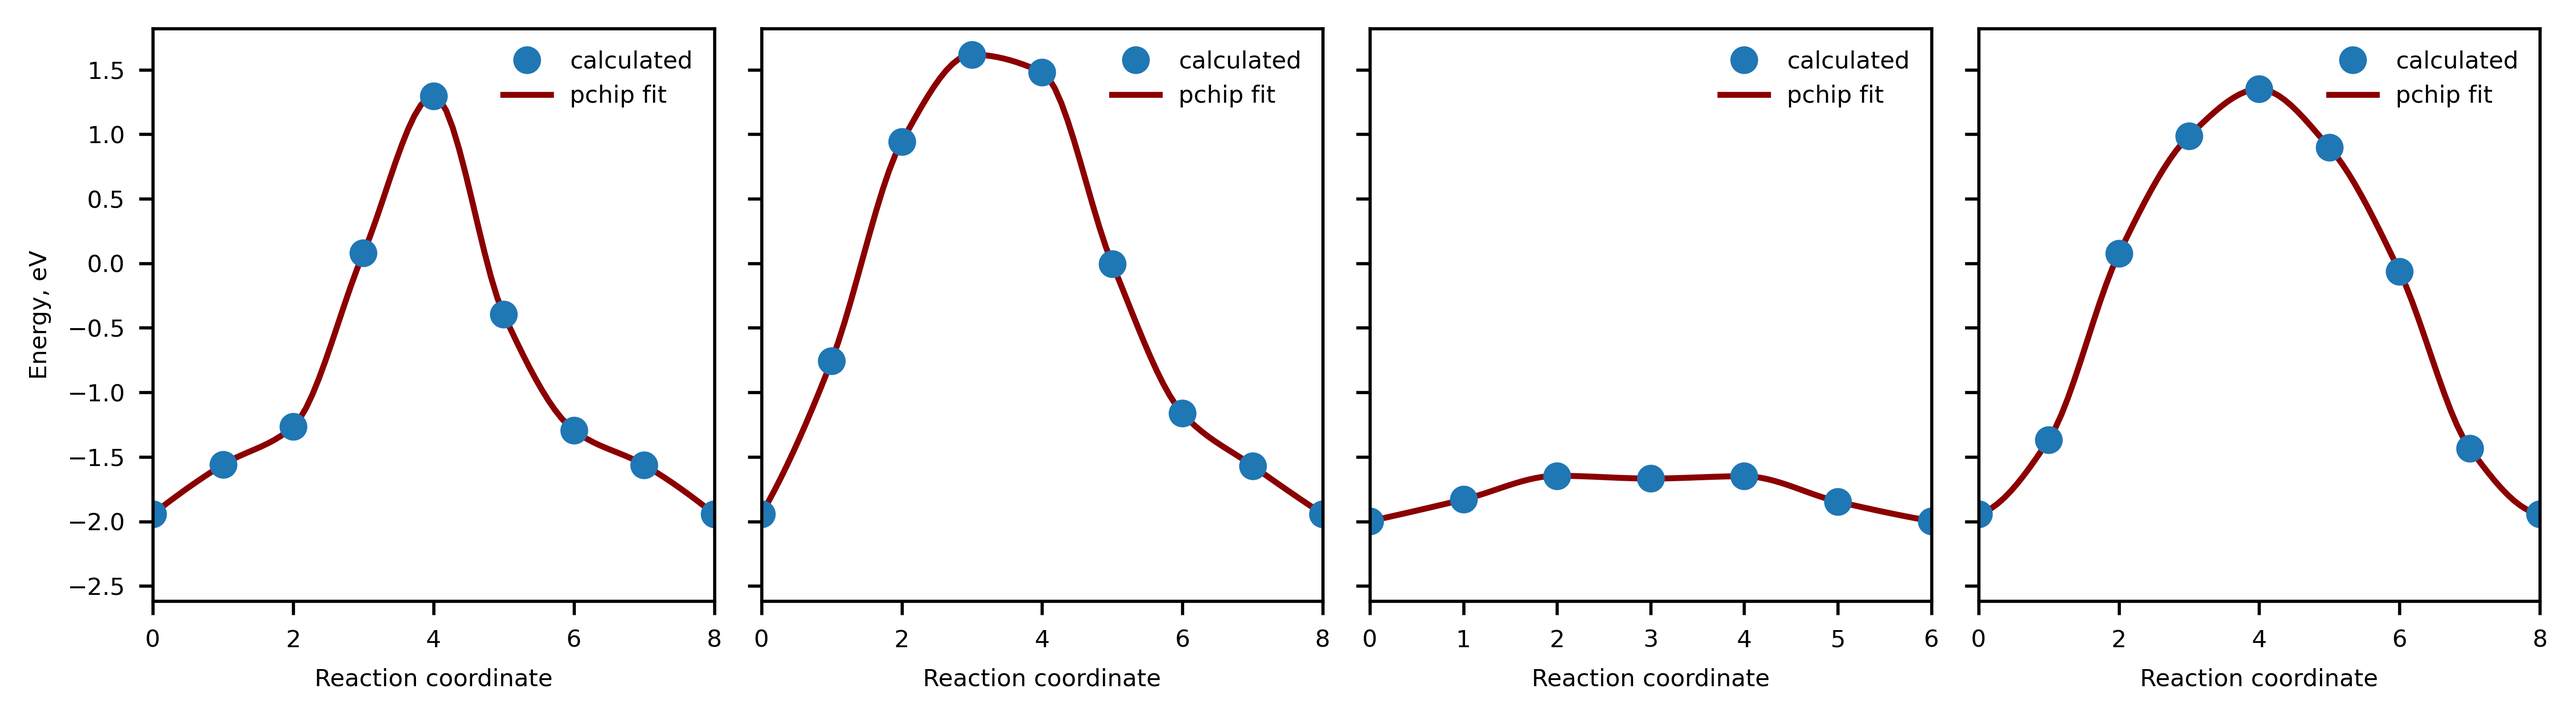
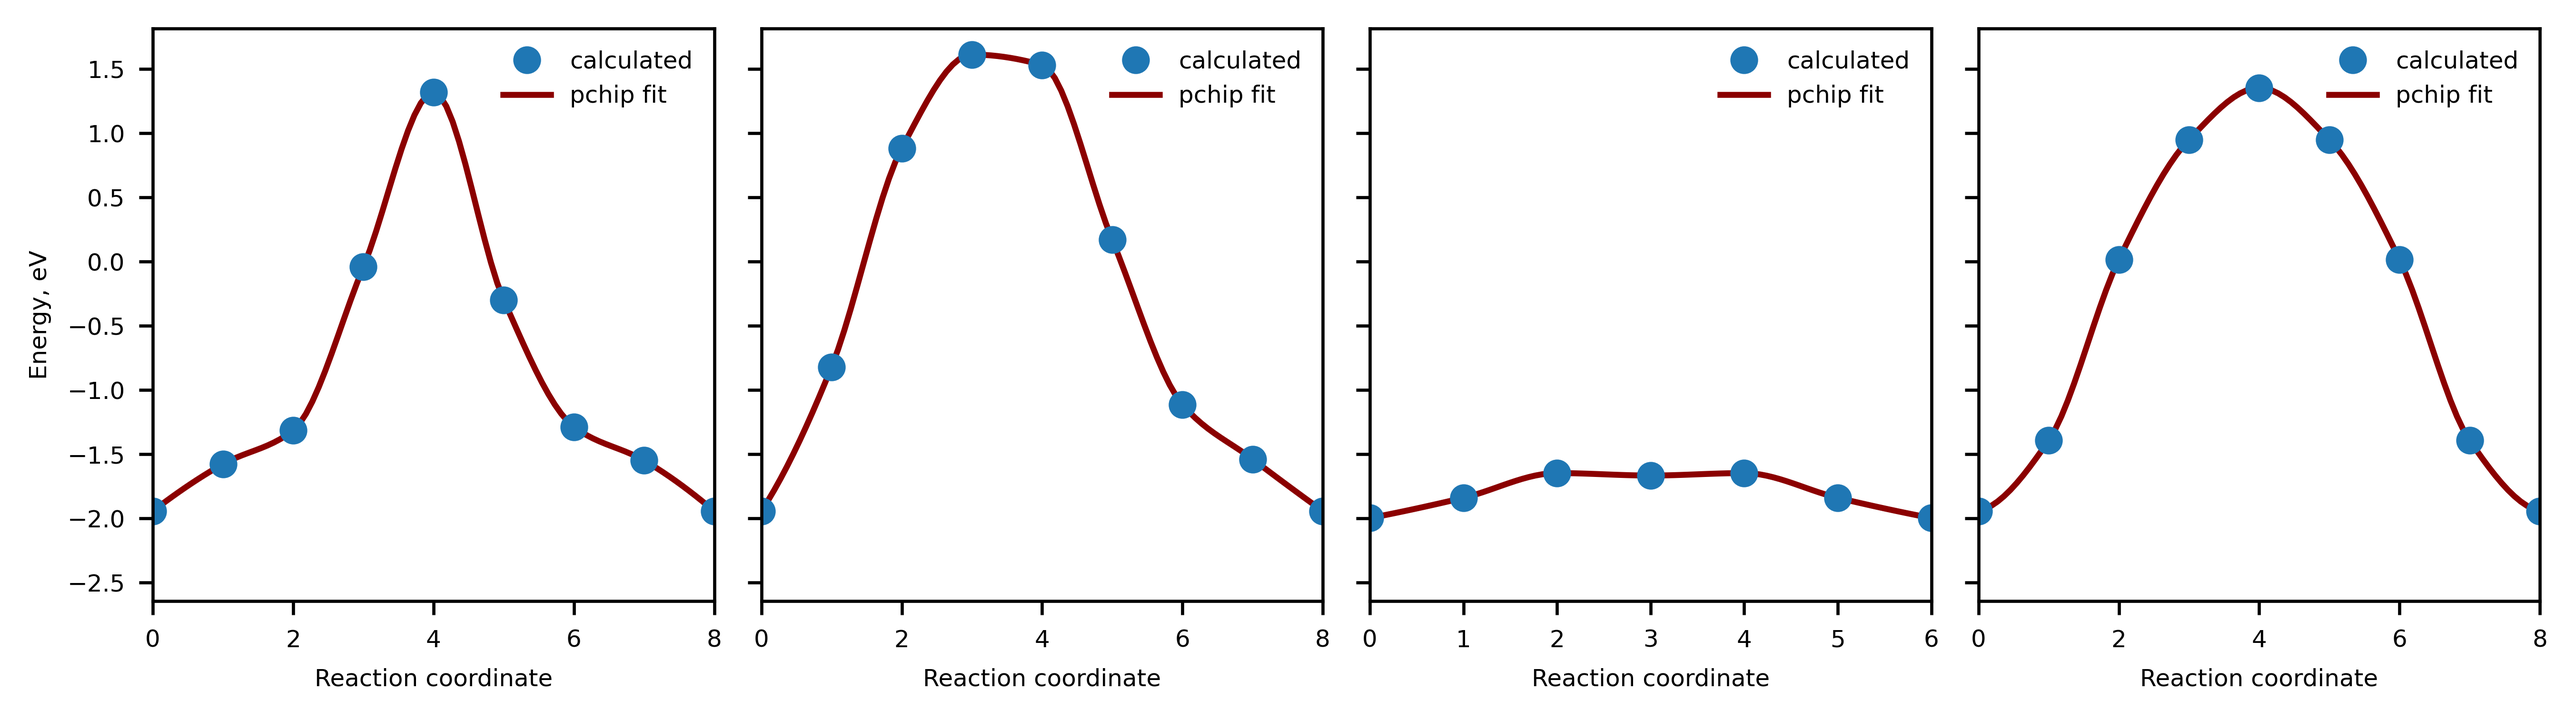
small refactoring

diff --git a/ions/tools/perconeb.py b/ions/tools/perconeb.py
@@ -455,7 +455,30 @@ class Perconeb(PathFinder):
     
 
 
-    def create_neb(self, images, k = 5.0, method = 'default', gm = True, **kwargs):
+    def create_neb(self, images, k = 5.0, method = 'default', gm = False, **kwargs):
+        """Wrapper for ase's NEB object. Sets BVSECalculator for each image.
+
+        Parameters
+        ----------
+
+        images: list of Ase's atoms object
+            structure should contain mobile species of interest
+            and array named "freezed" defined as
+            freezed = np.array([i != source for i in range(len(supercell))])
+            atoms.sett_array('freezed', freezed)
+            see .interpolate method for the details
+
+        k: float, 5.0 by default
+            string force costant, eV
+        
+        default: boolean, whether to use default method or not, True by default
+            if False, will use **kwargs passed for ase's NEB object
+
+        gm: boolean, True by default
+            shift moving ion in the center image into its geometric median within supercell
+            was not properly tested
+        
+        """
         _, neb = self.sf.bvse_neb(images, k = k, method = method, gm = gm, **kwargs)
         return neb
     

diff --git a/README.md b/README.md
@@ -58,10 +58,10 @@ for i, images in enumerate(traj):
           f'Activation barrier {pn.sf.get_barrier(images).round(2)} eV')
 ```
 
-    Unique jump #0: Fmax 0.08 eV/angstrom | Activation barrier 3.24 eV
-    Unique jump #1: Fmax 0.05 eV/angstrom | Activation barrier 3.56 eV
-    Unique jump #2: Fmax 0.08 eV/angstrom | Activation barrier 0.35 eV
-    Unique jump #3: Fmax 0.06 eV/angstrom | Activation barrier 3.29 eV
+    Unique jump #0: Fmax 0.08 eV/angstrom | Activation barrier 3.26 eV
+    Unique jump #1: Fmax 0.06 eV/angstrom | Activation barrier 3.56 eV
+    Unique jump #2: Fmax 0.09 eV/angstrom | Activation barrier 0.35 eV
+    Unique jump #3: Fmax 0.07 eV/angstrom | Activation barrier 3.3 eV
 
 
 #### Plot profile
@@ -122,9 +122,9 @@ for i, dim_ in enumerate(dims):
     print(f'Activation barrier of {i + 1}D percolation: {round(e_a, 3)} eV')
 ```
 
-    Activation barrier of 1D percolation: 0.351 eV
-    Activation barrier of 2D percolation: 3.24 eV
-    Activation barrier of 3D percolation: 3.295 eV
+    Activation barrier of 1D percolation: 0.35 eV
+    Activation barrier of 2D percolation: 3.26 eV
+    Activation barrier of 3D percolation: 3.314 eV
 
 
 #### Available data
